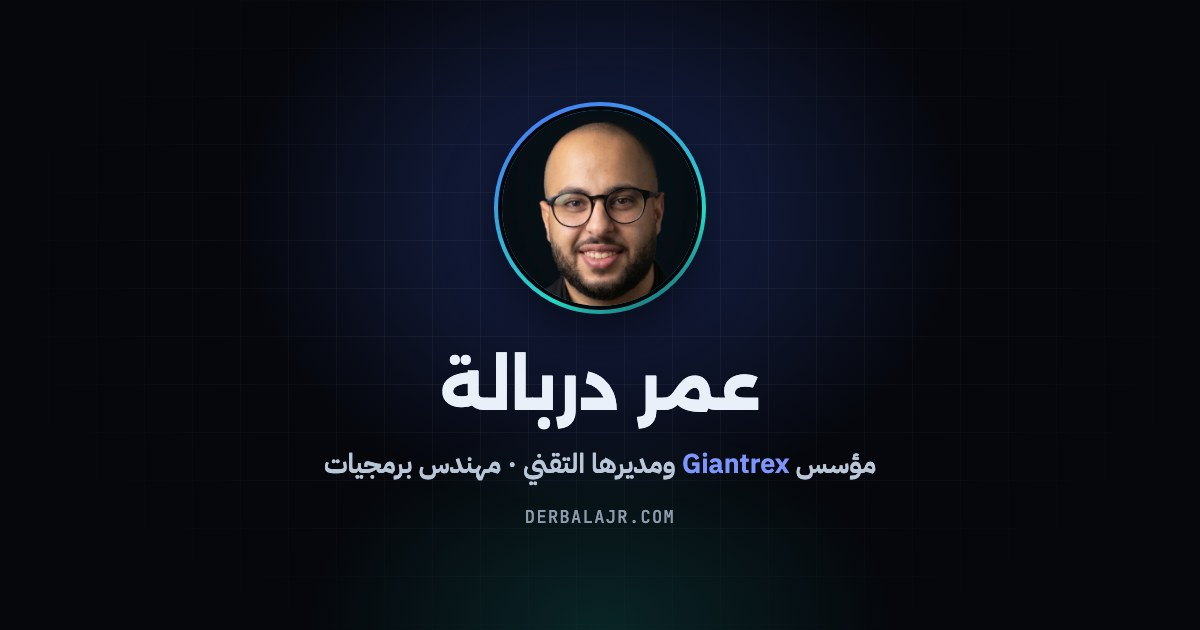
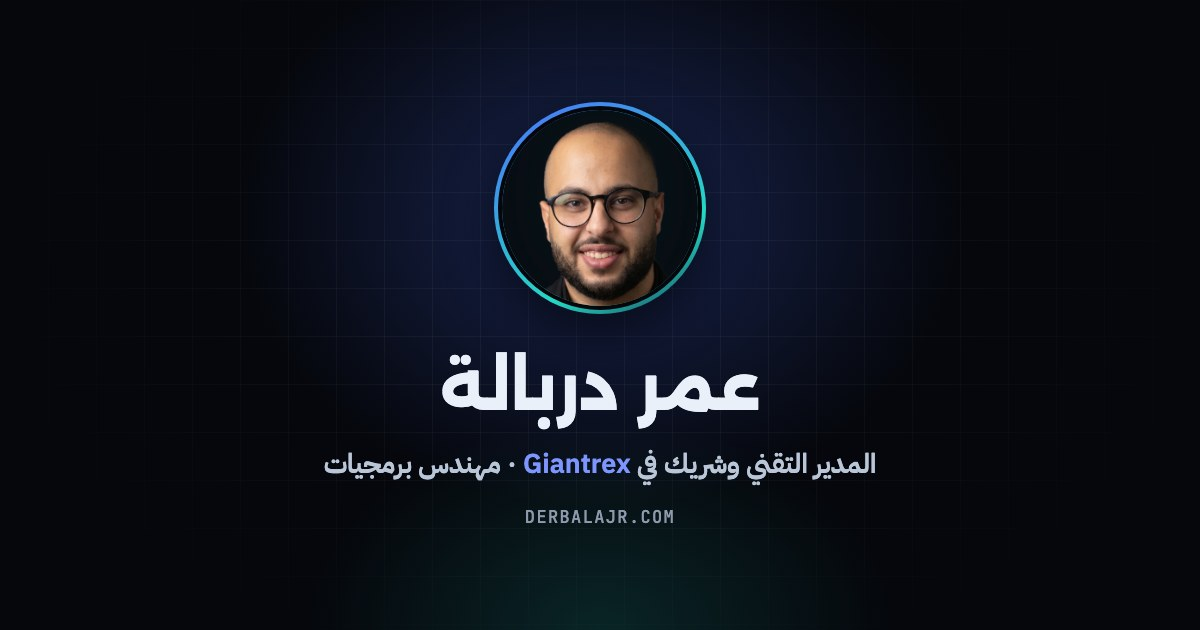
Giantrex title is CTO & Partner, not founder
Walks back "Founder" everywhere it was introduced: hero, About, Giantrex
section, Experience, footer, metadata, share cards (EN/AR), manifest,
llms.txt and JSON-LD (Organization.founder -> member). Restores the
content decision log.

Changed region(s): [[0.4317, 0.7238, 0.74, 0.7841], [0.37, 0.7238, 0.4008, 0.754], [0.2775, 0.7238, 0.3083, 0.754]]

diff --git a/data/ar.ts b/data/ar.ts
@@ -15,17 +15,17 @@ export const navItems: NavItem[] = [
 ];
 
 export const heroData = {
-  badge: "عمر دربالة · مؤسس Giantrex ومديرها التقني",
+  badge: "عمر دربالة · المدير التقني وشريك في Giantrex",
   headline: ["أبني الأنظمة", "التي تُدار بها"],
   headlineAccent: "الشركات.",
   tagline:
-    "مؤسس Giantrex ومديرها التقني، ومهندس برمجيات أول. أصمّم وأبني المنصات التي تُدار بها الأعمال، من نموذج البيانات حتى الواجهة، بأي تقنية تتطلبها المشكلة.",
+    "المدير التقني وشريك في Giantrex، ومهندس برمجيات أول. أصمّم وأبني المنصات التي تُدار بها الأعمال، من نموذج البيانات حتى الواجهة، بأي تقنية تتطلبها المشكلة.",
   proof: ["★ Top Rated على Upwork", "نسبة نجاح 100%", "أكثر من 4 سنوات في بيئة الإنتاج"],
   portrait: {
     src: "/omar-derbala-headshot.webp",
     width: 1200,
     height: 1607,
-    alt: "عمر دربالة، مؤسس Giantrex ومديرها التقني",
+    alt: "عمر دربالة، المدير التقني وشريك في Giantrex",
     caption: "عمر دربالة",
     status: "متصل",
   },
@@ -60,7 +60,7 @@ export const about = {
   kicker: "01 / نبذة",
   lead: "أربع سنوات في بناء أنظمة تعتمد عليها الشركات فعلًا — أنظمة ERP وCRM، ومنصات حجز، وأسواق إلكترونية.",
   body: [
-    "أسّست Giantrex وأقودها مديرًا تقنيًا. تبني الشركة البرمجيات وأنظمة الذكاء الاصطناعي ومحاكاة الواقع الممتد، وأتولى معمارية كل منتج برمجي تطلقه. وإلى جانبها أعمل مهندسًا أول على نظام ERP/CRM متعدد المستأجرين يستخدمه أكثر من 6,000 موظف، على الواجهتين الخلفية والأمامية معًا بدل أن أسلّم واجهة برمجية وأمضي، وأقبل عقودًا مختارة عبر Upwork.",
+    "أنا شريك في Giantrex ومديرها التقني. تبني الشركة البرمجيات وأنظمة الذكاء الاصطناعي ومحاكاة الواقع الممتد، وأتولى معمارية كل منتج برمجي تطلقه. وإلى جانبها أعمل مهندسًا أول على نظام ERP/CRM متعدد المستأجرين يستخدمه أكثر من 6,000 موظف، على الواجهتين الخلفية والأمامية معًا بدل أن أسلّم واجهة برمجية وأمضي، وأقبل عقودًا مختارة عبر Upwork.",
     "أكثر ما أفخر به عادةً هو العمل البعيد عن الأضواء: حسابات مالية لا تنحرف، وتكاملات مع الموردين تصمد حين يغيّر المورد شيئًا، ومزامنة بين نظامين لا يتفقان على أيّ البيانات هي الصحيحة.",
   ],
 };
@@ -74,14 +74,14 @@ export const stats: Stat[] = [
 
 export const giantrex = {
   kicker: "02 / شركتي",
-  role: "المؤسس والمدير التقني",
+  role: "المدير التقني والشريك",
   logo: {
     src: "/giantrex-lockup.png",
     width: 837,
     height: 129,
   },
   tagline: "برمجيات، وذكاء اصطناعي، ومحاكاة بالواقع الممتد.",
-  body: "أسّست Giantrex لبناء برمجيات يجب أن تصمد في بيئة الإنتاج: محركات حجز، ومنصات لوجستية، وتكاملات للتجارة الإلكترونية. وبصفتي المدير التقني أحدد التوجه التقني، وأختار التقنيات، وأصمم معمارية كل منتج برمجي، ثم أكتب أصعب أجزائه بنفسي.",
+  body: "تبني Giantrex برمجيات يجب أن تصمد في بيئة الإنتاج: محركات حجز، ومنصات لوجستية، وتكاملات للتجارة الإلكترونية. وبصفتي شريكًا ومديرًا تقنيًا أحدد التوجه التقني، وأختار التقنيات، وأصمم معمارية كل منتج برمجي، ثم أكتب أصعب أجزائه بنفسي.",
   practicesHeading: "ما نبنيه",
   shippedHeading: "منتجات أطلقناها في Giantrex",
   visit: "زيارة",
@@ -448,12 +448,12 @@ export const experience = {
 export const roles: Role[] = [
   {
     period: "نوفمبر 2025 — حتى الآن",
-    type: "مؤسس · عن بُعد",
-    title: "المؤسس والمدير التقني",
+    type: "شريك · عن بُعد",
+    title: "المدير التقني والشريك",
     company: "Giantrex",
     url: "https://giantrex.net/",
     description:
-      "أسّست Giantrex، استوديو يبني البرمجيات وأنظمة الذكاء الاصطناعي ومحاكاة الواقع الممتد. وبصفتي المدير التقني أحدد التوجه التقني وأصمم معمارية كل منتج برمجي تطلقه الشركة — Akaza Travel وRahwan وتطبيق Rahwan Shipping على Shopify App Store.",
+      "شريك ومدير تقني في Giantrex، استوديو يبني البرمجيات وأنظمة الذكاء الاصطناعي ومحاكاة الواقع الممتد. وبصفتي المدير التقني أحدد التوجه التقني وأصمم معمارية كل منتج برمجي تطلقه الشركة — Akaza Travel وRahwan وتطبيق Rahwan Shipping على Shopify App Store.",
     stack: [
       "Laravel",
       "PostgreSQL",
@@ -577,7 +577,7 @@ export const contact = {
 
 export const footer = {
   left: "© 2026 عمر دربالة — derbalajr.com",
-  venture: { label: "المؤسس والمدير التقني، Giantrex", url: "https://giantrex.net/" },
+  venture: { label: "المدير التقني والشريك، Giantrex", url: "https://giantrex.net/" },
   right: "القاهرة، مصر · GMT+3",
 };
 
@@ -606,21 +606,21 @@ export const ui = {
 export const meta = {
   url: `${SITE_URL}/ar`,
   ogLocale: "ar_EG",
-  title: "عمر دربالة — مؤسس Giantrex ومديرها التقني | مهندس برمجيات أول",
+  title: "عمر دربالة — المدير التقني وشريك في Giantrex | مهندس برمجيات أول",
   description:
-    "مؤسس Giantrex ومديرها التقني. مهندس برمجيات أول يبني منصات ERP وCRM والحجز والتجارة الإلكترونية للمؤسسات. Top Rated على Upwork.",
-  ogTitle: "عمر دربالة — مؤسس Giantrex ومديرها التقني",
+    "المدير التقني وشريك في Giantrex. مهندس برمجيات أول يبني منصات ERP وCRM والحجز والتجارة الإلكترونية للمؤسسات. Top Rated على Upwork.",
+  ogTitle: "عمر دربالة — المدير التقني وشريك في Giantrex",
   ogDescription:
-    "مؤسس Giantrex ومديرها التقني، ومهندس برمجيات أول. منصات ERP وCRM والحجز والتجارة الإلكترونية للمؤسسات.",
+    "المدير التقني وشريك في Giantrex، ومهندس برمجيات أول. منصات ERP وCRM والحجز والتجارة الإلكترونية للمؤسسات.",
   ogImage: "/og-ar.jpg",
-  ogAlt: "عمر دربالة — مؤسس Giantrex ومديرها التقني · مهندس برمجيات",
+  ogAlt: "عمر دربالة — المدير التقني وشريك في Giantrex · مهندس برمجيات",
   twitterDescription:
     "أبني الأنظمة التي تُدار بها الشركات، من نموذج البيانات حتى الواجهة.",
   siteName: "عمر دربالة — معرض الأعمال",
   personDescription:
-    "مؤسس Giantrex ومديرها التقني. مهندس برمجيات أول بخبرة أربع سنوات في بناء أنظمة ERP/CRM للمؤسسات ومنصات الحجز ومشروعات التحول الرقمي الوطنية.",
-  websiteName: "عمر دربالة — مؤسس Giantrex ومديرها التقني",
+    "المدير التقني وشريك في Giantrex. مهندس برمجيات أول بخبرة أربع سنوات في بناء أنظمة ERP/CRM للمؤسسات ومنصات الحجز ومشروعات التحول الرقمي الوطنية.",
+  websiteName: "عمر دربالة — المدير التقني وشريك في Giantrex",
   websiteDescription:
-    "معرض أعمال عمر دربالة، مؤسس Giantrex ومديرها التقني ومهندس برمجيات أول.",
+    "معرض أعمال عمر دربالة، المدير التقني وشريك في Giantrex ومهندس برمجيات أول.",
   profileName: "معرض أعمال عمر دربالة",
 };

diff --git a/data/en.ts b/data/en.ts
@@ -13,17 +13,17 @@ export const navItems: NavItem[] = [
 ];
 
 export const heroData = {
-  badge: "Omar Derbala · Founder & CTO at Giantrex",
+  badge: "Omar Derbala · CTO & Partner at Giantrex",
   headline: ["I build the", "systems companies"],
   headlineAccent: "run on.",
   tagline:
-    "Founder and CTO of Giantrex, and a senior software engineer. I design and build the platforms businesses run on, from the data model to the interface, in whatever stack the problem calls for.",
+    "CTO and partner at Giantrex, and a senior software engineer. I design and build the platforms businesses run on, from the data model to the interface, in whatever stack the problem calls for.",
   proof: ["★ Top Rated on Upwork", "100% Job Success", "4+ yrs in production"],
   portrait: {
     src: "/omar-derbala-headshot.webp",
     width: 1200,
     height: 1607,
-    alt: "Omar Derbala, founder and CTO of Giantrex",
+    alt: "Omar Derbala, CTO and partner at Giantrex",
     caption: "Omar Derbala",
     status: "online",
   },
@@ -58,7 +58,7 @@ export const about = {
   kicker: "01 / About",
   lead: "Four years building systems that businesses actually depend on — ERPs, CRMs, booking platforms, marketplaces.",
   body: [
-    "I founded Giantrex and run it as CTO. It builds software, AI and XR simulations, and I own the architecture of every software product it ships. Alongside it I'm a senior engineer on a multi-tenant ERP/CRM used by 6,000+ employees, working across the backend and the front end rather than throwing an API over the wall, and I take selected Upwork contracts.",
+    "I’m a partner and the CTO at Giantrex. It builds software, AI and XR simulations, and I own the architecture of every software product it ships. Alongside it I'm a senior engineer on a multi-tenant ERP/CRM used by 6,000+ employees, working across the backend and the front end rather than throwing an API over the wall, and I take selected Upwork contracts.",
     "The work I'm proudest of tends to be the unglamorous kind: money arithmetic that can't drift, supplier integrations that hold up when the supplier changes something, sync between two systems that disagree about the truth.",
   ],
 };
@@ -74,7 +74,7 @@ export const stats: Stat[] = [
 // `projects` by their `venture` field, so a new card shows up in both places.
 export const giantrex = {
   kicker: "02 / Venture",
-  role: "Founder & CTO",
+  role: "CTO & Partner",
   logo: {
     src: "/giantrex-lockup.png",
     width: 837,
@@ -82,7 +82,7 @@ export const giantrex = {
   },
   // The company's own line, from giantrex.net.
   tagline: "Software, AI and XR simulations.",
-  body: "I started Giantrex to build software that has to hold up in production: booking engines, logistics platforms, commerce integrations. As CTO I set the technical direction, pick the stack and design the architecture of every software product, then write the hardest parts myself.",
+  body: "Giantrex builds software that has to hold up in production: booking engines, logistics platforms, commerce integrations. As partner and CTO I set the technical direction, pick the stack and design the architecture of every software product, then write the hardest parts myself.",
   practicesHeading: "What we build",
   shippedHeading: "Shipped under Giantrex",
   visit: "Visit",
@@ -453,12 +453,12 @@ export const experience = {
 export const roles: Role[] = [
   {
     period: "Nov 2025 — Present",
-    type: "Founder · Remote",
-    title: "Founder & CTO",
+    type: "Partner · Remote",
+    title: "CTO & Partner",
     company: "Giantrex",
     url: "https://giantrex.net/",
     description:
-      "Founded Giantrex, a studio building software, AI and XR simulations. As CTO I set the technical direction and architect every software product it ships — Akaza Travel, Rahwan and the Rahwan Shipping app on the Shopify App Store.",
+      "Partner and CTO at Giantrex, a studio building software, AI and XR simulations. I set the technical direction and architect every software product it ships — Akaza Travel, Rahwan and the Rahwan Shipping app on the Shopify App Store.",
     stack: [
       "Laravel",
       "PostgreSQL",
@@ -586,7 +586,7 @@ export const contact = {
 
 export const footer = {
   left: "© 2026 Omar Derbala — derbalajr.com",
-  venture: { label: "Founder & CTO, Giantrex", url: "https://giantrex.net/" },
+  venture: { label: "CTO & Partner, Giantrex", url: "https://giantrex.net/" },
   right: "Cairo, Egypt · GMT+3",
 };
 
@@ -617,21 +617,21 @@ export const ui = {
 export const meta = {
   url: SITE_URL,
   ogLocale: "en_US",
-  title: "Omar Derbala — Founder & CTO of Giantrex | Senior Full Stack Engineer",
+  title: "Omar Derbala — CTO & Partner at Giantrex | Senior Full Stack Engineer",
   description:
-    "Founder and CTO of Giantrex. Senior software engineer building enterprise ERP, CRM, booking and commerce platforms. Top Rated on Upwork.",
-  ogTitle: "Omar Derbala — Founder & CTO of Giantrex",
+    "CTO and partner at Giantrex. Senior software engineer building enterprise ERP, CRM, booking and commerce platforms. Top Rated on Upwork.",
+  ogTitle: "Omar Derbala — CTO & Partner at Giantrex",
   ogDescription:
-    "Founder and CTO of Giantrex, and a senior software engineer. Enterprise ERP, CRM, booking and commerce platforms.",
+    "CTO and partner at Giantrex, and a senior software engineer. Enterprise ERP, CRM, booking and commerce platforms.",
   ogImage: "/og.jpg",
-  ogAlt: "Omar Derbala — Founder & CTO, Giantrex · Software Engineer",
+  ogAlt: "Omar Derbala — CTO & Partner, Giantrex · Software Engineer",
   twitterDescription:
     "I build the systems companies run on, from the data model to the interface.",
   siteName: "Omar Derbala — Portfolio",
   personDescription:
-    "Founder and CTO of Giantrex. Senior software engineer with four years of experience building enterprise ERP/CRM platforms, booking systems and national digital transformation projects.",
-  websiteName: "Omar Derbala — Founder & CTO of Giantrex",
+    "CTO and partner at Giantrex. Senior software engineer with four years of experience building enterprise ERP/CRM platforms, booking systems and national digital transformation projects.",
+  websiteName: "Omar Derbala — CTO & Partner at Giantrex",
   websiteDescription:
-    "Portfolio of Omar Derbala, founder and CTO of Giantrex and a senior software engineer.",
+    "Portfolio of Omar Derbala, CTO and partner at Giantrex and a senior software engineer.",
   profileName: "Omar Derbala Portfolio",
 };

diff --git a/app/shell.tsx b/app/shell.tsx
@@ -76,7 +76,7 @@ export function buildMetadata(locale: Locale): Metadata {
       "Omar Derbala",
       "Omar Derbala portfolio",
       "Giantrex",
-      "Giantrex founder",
+      "Giantrex partner",
       "Giantrex CTO",
       "CTO",
       "Full Stack Engineer",
@@ -180,7 +180,7 @@ const personSchema = {
   image: `${SITE_URL}/omar-derbala-headshot.webp`,
   email: "derbalajr@gmail.com",
   telephone: "+201111293179",
-  jobTitle: ["Founder & CTO", "Senior Full Stack Engineer"],
+  jobTitle: ["CTO & Partner", "Senior Full Stack Engineer"],
   hasOccupation: [
     {
       "@type": "Occupation",
@@ -253,7 +253,7 @@ const personSchema = {
   // description is filled in per language by RootShell.
 };
 
-// Ties the person to the company they founded, so search engines can connect
+// Ties the person to the company they are a partner and CTO at, so search engines can connect
 // derbalajr.com and giantrex.net.
 const giantrexSchema = {
   "@context": "https://schema.org",
@@ -262,17 +262,17 @@ const giantrexSchema = {
   name: "Giantrex",
   url: "https://giantrex.net/",
   description: "Software, AI and XR simulations.",
-  founder: { "@id": `${SITE_URL}/#person` },
+  member: { "@id": `${SITE_URL}/#person` },
 };
 
 const websiteSchema = {
   "@context": "https://schema.org",
   "@type": "WebSite",
   "@id": `${SITE_URL}/#website`,
-  name: "Omar Derbala — Founder & CTO of Giantrex",
+  name: "Omar Derbala — CTO & Partner at Giantrex",
   url: SITE_URL,
   description:
-    "Portfolio of Omar Derbala, founder and CTO of Giantrex and a senior full stack engineer specializing in Laravel, PostgreSQL and Next.js.",
+    "Portfolio of Omar Derbala, CTO and partner at Giantrex and a senior software engineer.",
   author: { "@id": `${SITE_URL}/#person` },
 };
 

diff --git a/app/llms.txt/route.ts b/app/llms.txt/route.ts
@@ -37,7 +37,7 @@ export function GET() {
 ${hero.tagline}
 
 - Website: ${SITE_URL} (English), ${SITE_URL}/ar (Arabic)
-- Company: Giantrex — ${c.giantrex.link.href} (Founder & CTO)
+- Company: Giantrex — ${c.giantrex.link.href} (CTO & Partner)
 - Location: Cairo, Egypt (GMT+3), works remotely
 - Email: ${c.contact.email}
 - Profiles: ${c.contact.socials.map((s) => `${s.name} ${s.url}`).join(" · ")}

diff --git a/app/manifest.ts b/app/manifest.ts
@@ -4,7 +4,7 @@ import type { MetadataRoute } from "next";
 // home screen, instead of a screenshot or the first letter of the title.
 export default function manifest(): MetadataRoute.Manifest {
   return {
-    name: "Omar Derbala — Founder & CTO of Giantrex",
+    name: "Omar Derbala — CTO & Partner at Giantrex",
     short_name: "Omar Derbala",
     start_url: "/",
     display: "browser",

diff --git a/docs/design/PORTFOLIO_CONTENT.md b/docs/design/PORTFOLIO_CONTENT.md
@@ -17,7 +17,7 @@ The CV and LinkedIn are backend-anchored. That's deliberate — don't "fix" the 
 | No Kubernetes | zero artifacts in ten repos; interview landmine |
 | No Unity, WordPress, jQuery, Bootstrap | drags a senior profile into junior searches |
 | Company is **The Address Investments** | not "Holding" |
-| Giantrex = **Founder & CTO** | your call, Oct 2026 — supersedes "Partner, Software Engineering"; linked to giantrex.net |
+| Giantrex = **CTO & Partner** | not founder (confirmed by you, 31 Oct 2026); linked to giantrex.net |
 | Akaza ranks **above** Rahwan | bigger system: 339 commits vs 224, 801 vs 489 classes |
 | The Address DB is **PostgreSQL** | not MySQL — verified in `.env` and all phpunit configs |
 
@@ -57,7 +57,7 @@ ERPs, CRMs, booking platforms, marketplaces.
 
 Most of my week goes to a multi-tenant ERP/CRM used by 6,000+ employees, where I work
 on both the Laravel backend and the Next.js front end rather than throwing an API over
-the wall. I founded Giantrex and run it as CTO; it builds software, AI and XR
+the wall. I’m a partner and the CTO at Giantrex; it builds software, AI and XR
 simulations. Superseded Oct 2026 — the live copy is in `data/index.ts`.
 
 The work I'm proudest of tends to be the unglamorous kind: money arithmetic that can't
@@ -194,7 +194,7 @@ Removed from the old site: `Django` `Python` `Kubernetes` `Anthropic API` `Gemin
 | Role | Company | Period |
 |---|---|---|
 | Senior Software Engineer | The Address Investments | Jan 2025 – Present · Full-time |
-| Founder & CTO | Giantrex | Nov 2025 – Present · Founder |
+| CTO & Partner | Giantrex | Nov 2025 – Present · Partner |
 | Freelance Software Engineer | Upwork · *Top Rated, 100% JSS* | 2022 – Present |
 | Full Stack PHP Developer | ACME IES | Jun 2022 – Jan 2025 · Full-time |
 | B.Sc. Computer Science (Dual Degree) | Arab Open University · The Open University (UK) | 2018 – 2022 |
